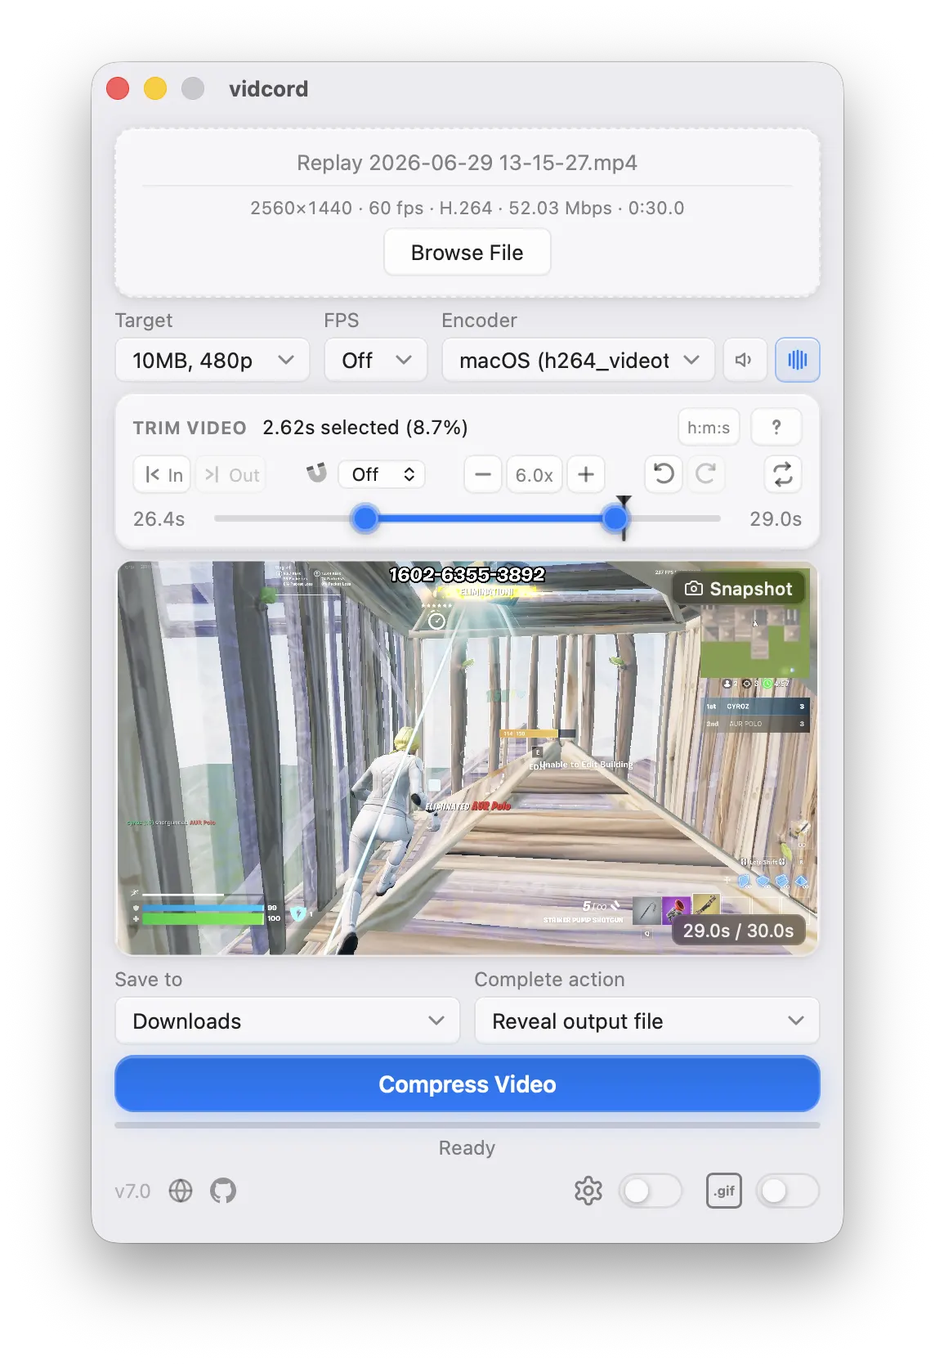
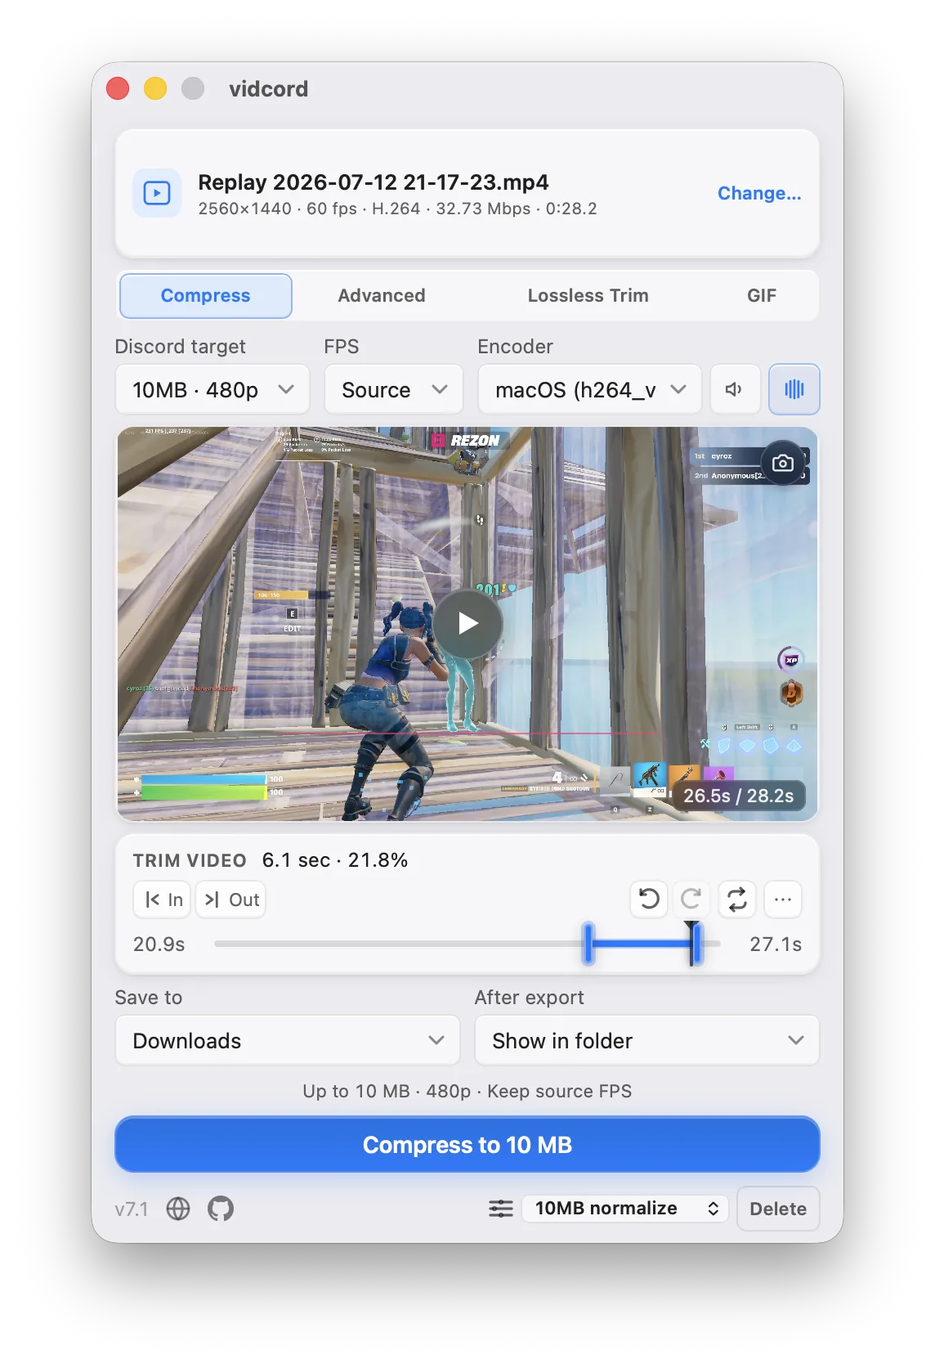
Complete 7.1 workflow and documentation updates

diff --git a/site/index.html b/site/index.html
@@ -91,6 +91,8 @@
             "description": "vidcord compresses MP4, MOV, MKV, AVI, WebM, FLV, and WMV files under Discord upload size limits locally on Windows, macOS, and Linux.",
             "featureList": [
               "Local video compression with FFmpeg",
+              "Saved named compression and mode presets with Autosave, restore, and delete controls",
+              "Lossless Trim stream-copy exports with outward keyframe-aligned boundaries and optional audio-track removal",
               "Discord upload targets: current 10 MB, 50 MB, 100 MB, and 500 MB limits plus a legacy 25 MB target",
               "Animated GIF exports for Discord's 10 MB Free and 50 MB Nitro Basic tiers at 15, 30, or Discord-safe maximum 50 FPS",
               "Output FPS controls with source-aware 24, 30, and 60 FPS presets plus advanced custom FPS",
@@ -113,6 +115,7 @@
             "image": [
               "https://vidcord.app/assets/window.png",
               "https://vidcord.app/assets/advancedmode.png",
+              "https://vidcord.app/assets/losslesstrim.png",
               "https://vidcord.app/assets/gifmode.png",
               "https://vidcord.app/assets/context.png",
               "https://vidcord.app/assets/finder.png",
@@ -444,6 +447,10 @@
           </p>
           <ul>
             <li>Strict output size checks with safer retry behavior.</li>
+            <li>
+              Named settings presets with Autosave, restore, and delete controls for export
+              settings.
+            </li>
             <li>Output FPS controls for 24, 30, 60, or a custom advanced value.</li>
             <li>Crop to 16:9, 1:1, 9:16, 4:3, 3:4, 4:5, or 5:4 before scaling.</li>
             <li>
@@ -483,6 +490,46 @@
               loading="lazy"
               decoding="async"
               alt="vidcord advanced mode with target size, resolution, and encoder controls"
+            />
+          </picture>
+        </div>
+      </section>
+
+      <section class="detail-section" aria-label="Lossless Trim">
+        <div class="detail-copy">
+          <h2>Keep the original quality with Lossless Trim.</h2>
+          <p>
+            Lossless Trim cuts on source keyframes without re-encoding the video. Choose the section
+            you need, keep or remove audio, and export an original-quality clip quickly with
+            stream-copy processing.
+          </p>
+          <ul>
+            <li>No video re-encoding for fast, original-quality exports.</li>
+            <li>Trim boundaries snap outward to source keyframes.</li>
+            <li>Keep audio or remove every audio track without re-encoding video.</li>
+            <li>Size-based exports offer it when the selected segment is estimated to fit.</li>
+            <li>Falls back to normal compression when stream copying is incompatible.</li>
+          </ul>
+        </div>
+        <div class="detail-image">
+          <picture>
+            <source
+              type="image/webp"
+              srcset="
+                assets/losslesstrim-480.webp   480w,
+                assets/losslesstrim-720.webp   720w,
+                assets/losslesstrim-960.webp   960w,
+                assets/losslesstrim-1144.webp 1144w
+              "
+              sizes="(max-width: 760px) calc(100vw - 36px), (max-width: 1040px) 560px, 500px"
+            />
+            <img
+              src="assets/losslesstrim.png"
+              width="1144"
+              height="1668"
+              loading="lazy"
+              decoding="async"
+              alt="vidcord Lossless Trim mode with keyframe-aligned trim controls and no video re-encoding"
             />
           </picture>
         </div>

diff --git a/src/components/SettingsPresets.tsx b/src/components/SettingsPresets.tsx
@@ -1,18 +1,35 @@
-import { useState, type ChangeEvent, type FormEvent } from "react";
-import type { SettingsPreset } from "../settingsPresets";
+import { useEffect, useState, type ChangeEvent, type FormEvent } from "react";
+import {
+  arePresetSettingsEqual,
+  type PresetSettings,
+  type SettingsPreset,
+} from "../settingsPresets";
 
 type Props = {
+  currentSettings: PresetSettings;
   presets: SettingsPreset[];
   onRestore: (preset: SettingsPreset) => void;
   onSave: (name: string) => SettingsPreset | null;
   onDelete: (preset: SettingsPreset) => void;
 };
 
-export default function SettingsPresets({ presets, onRestore, onSave, onDelete }: Props) {
+export default function SettingsPresets({
+  currentSettings,
+  presets,
+  onRestore,
+  onSave,
+  onDelete,
+}: Props) {
   const [saveFormOpen, setSaveFormOpen] = useState(false);
   const [name, setName] = useState("");
   const [selectedPresetId, setSelectedPresetId] = useState("autosave");
   const selectedPreset = presets.find((preset) => preset.id === selectedPresetId);
+
+  useEffect(() => {
+    if (selectedPreset && !arePresetSettingsEqual(currentSettings, selectedPreset.settings)) {
+      setSelectedPresetId("autosave");
+    }
+  }, [currentSettings, selectedPreset]);
 
   const submitSave = (event: FormEvent<HTMLFormElement>) => {
     event.preventDefault();

diff --git a/src/App.tsx b/src/App.tsx
@@ -360,6 +360,12 @@ export default function App() {
       onEncodersDetected: persistDetectedEncoders,
       onFfmpegMissing: () => addToast("error", "FFmpeg Not Found", FFMPEG_MISSING_TOAST_MESSAGE),
     });
+  const currentEncoderLabel =
+    encoders[encoderIdx]?.label ?? (settingsRef.current.encoder_label as string | undefined) ?? "";
+  const currentPresetSettings = useMemo(
+    () => getSettingsSnapshot(encoderIdx, currentEncoderLabel),
+    [currentEncoderLabel, encoderIdx, getSettingsSnapshot]
+  );
   const { compressing, setCompressing, cancelling, progress, eta, cancelCompress, resetProgress } =
     useCompression({ onToast: addToast });
 
@@ -3324,6 +3330,7 @@ export default function App() {
               }
             >
               <SettingsPresets
+                currentSettings={currentPresetSettings}
                 presets={presets}
                 onRestore={restoreSettingsPreset}
                 onSave={saveSettingsPreset}

diff --git a/src/__tests__/settingsPresets.test.ts b/src/__tests__/settingsPresets.test.ts
@@ -1,10 +1,22 @@
 import { describe, expect, it } from "vitest";
 import {
+  arePresetSettingsEqual,
   MAX_SETTINGS_PRESETS,
   normalizePresetName,
   normalizePresetSettings,
   parseSettingsPresets,
 } from "../settingsPresets";
+
+describe("arePresetSettingsEqual", () => {
+  it("detects when a preset-covered setting changes", () => {
+    const original = normalizePresetSettings({ quality_index: 2 });
+
+    expect(arePresetSettingsEqual(original, original)).toBe(true);
+    expect(arePresetSettingsEqual(original, { ...original, advanced_resolution: "720p" })).toBe(
+      false
+    );
+  });
+});
 
 describe("normalizePresetName", () => {
   it("trims and collapses whitespace", () => {

diff --git a/src/settingsPresets.ts b/src/settingsPresets.ts
@@ -82,6 +82,12 @@ export function normalizePresetSettings(value: unknown): PresetSettings {
   return normalized;
 }
 
+export function arePresetSettingsEqual(left: PresetSettings, right: PresetSettings): boolean {
+  return (Object.keys(DEFAULT_PRESET_SETTINGS) as Array<keyof PresetSettings>).every((key) =>
+    Object.is(left[key], right[key])
+  );
+}
+
 export function normalizePresetName(value: string): string {
   return value.trim().replace(/\s+/g, " ").slice(0, MAX_PRESET_NAME_LENGTH);
 }

diff --git a/README.md b/README.md
@@ -91,6 +91,7 @@ first pass lands too large.
 | ------------------------------------------------------- | ------------------------------------------------------------------------------ |
 | Compress a video for Discord free upload limits         | Use the 10 MB preset, trim the clip, and remove audio if needed.               |
 | Compress large MP4, MOV, MKV, AVI, or WebM files        | FFmpeg handles the input format and vidcord exports a Discord-friendly `.mp4`. |
+| Preserve original video quality while trimming          | Use Lossless Trim for keyframe-aligned stream-copy output without re-encoding. |
 | Turn a video clip into a Discord GIF                    | Enable GIF Mode and choose the 10 MB Free or 50 MB Nitro Basic target.         |
 | Make a video fit Discord Nitro or boosted server limits | Pick 50 MB, 100 MB, or 500 MB presets without calculating bitrates by hand.    |
 | Keep video compression private                          | Everything runs locally on your computer; no web upload step.                  |
@@ -100,7 +101,10 @@ first pass lands too large.
 ## Features
 
 - **Saved settings presets** — the app autosaves the last settings used by default;
-  use the bottom-right preset dropdown to save, restore, and delete named export configurations.
+  use the bottom-right preset dropdown to save, restore, and delete up to 20 named compression and
+  mode configurations. Names are limited to 40 characters; changing a saved preset's settings
+  returns the selector to Autosave, while output destination and completion action remain separate
+  autosaved preferences.
 
 - **Five quality presets** covering current Discord tiers plus a legacy target:
   - 10 MB @ 480p — Discord free tier
@@ -136,13 +140,16 @@ first pass lands too large.
   in Explorer/Finder instead.
 - **Trim timeline** with fine-grained handles, draggable playhead, snap
   controls, zoom, pan, undo/redo, and optional looped playback.
-- **Lossless Trim** — use the dedicated copy-mode toggle beside Advanced to
+- **Lossless Trim** — use the dedicated copy-mode tab beside Advanced to
   preserve every source stream with a fast keyframe-aligned stream copy, or
   remove all audio tracks without re-encoding the video. Unrelated settings are
   hidden while the mode is active. When a selected segment is estimated to fit
   a chosen size target at the source bitrate, pressing Compress offers this
   mode automatically; accepting it switches to less-precise keyframe trimming
-  so you can choose the trim points again before exporting.
+  so you can choose the trim points again before exporting. Boundaries snap
+  outward to source keyframes; vidcord prefers an MP4 stream-copy output, then
+  the validated source container, and falls back to normal compression when
+  neither is compatible.
 - **In-app playback preview** of the trimmed segment on Windows and macOS,
   starting from the current playhead when it is inside the selected range.
 - **Responsive scrub previews** with display-sized filmstrip/frame thumbnails,
@@ -198,13 +205,15 @@ first pass lands too large.
 MP4, MOV, MKV, AVI, WebM, FLV, WMV, and any other container / codec
 combination your system FFmpeg can demux. Standard and Advanced mode output is
 `.mp4` — H.264 (AVC) by default or H.265 (HEVC) if you pick an `hevc_*`
-encoder. GIF Mode creates an animated `.gif`.
+encoder. Lossless Trim prefers `.mp4` and can use the validated source video
+extension when the source container is the compatible stream-copy choice. GIF
+Mode creates an animated `.gif`.
 
 ## Screenshots
 
-| Main window                                                                                             | Advanced mode                                                                                                              | GIF mode                                                                                                                |
-| ------------------------------------------------------------------------------------------------------- | -------------------------------------------------------------------------------------------------------------------------- | ----------------------------------------------------------------------------------------------------------------------- |
-| ![vidcord main window with trim timeline, size preset picker, and progress bar](site/assets/window.png) | ![vidcord Advanced mode: custom target size, output resolution, and FFmpeg encoder override](site/assets/advancedmode.png) | ![vidcord GIF mode with Discord size target, FPS picker, trim timeline, and Create GIF button](site/assets/gifmode.png) |
+| Main window                                                                                             | Advanced mode                                                                                                              | Lossless Trim                                                                                                            | GIF mode                                                                                                                |
+| ------------------------------------------------------------------------------------------------------- | -------------------------------------------------------------------------------------------------------------------------- | ------------------------------------------------------------------------------------------------------------------------ | ----------------------------------------------------------------------------------------------------------------------- |
+| ![vidcord main window with trim timeline, size preset picker, and progress bar](site/assets/window.png) | ![vidcord Advanced mode: custom target size, output resolution, and FFmpeg encoder override](site/assets/advancedmode.png) | ![vidcord Lossless Trim mode with keyframe-aligned trim controls and no video re-encoding](site/assets/losslesstrim.png) | ![vidcord GIF mode with Discord size target, FPS picker, trim timeline, and Create GIF button](site/assets/gifmode.png) |
 
 | Output file                                                                                 | Windows context menu                                                                                            | macOS Finder                                                                                          |
 | ------------------------------------------------------------------------------------------- | --------------------------------------------------------------------------------------------------------------- | ----------------------------------------------------------------------------------------------------- |
@@ -274,23 +283,33 @@ For more distros, manual installs, or troubleshooting, read
 2. **Choose where to save** — use Downloads, the imported clip's folder, a
    remembered custom folder, or **Ask when done**. Choose whether completion
    copies the output file or reveals it.
-3. **Pick a preset** — 10/25/50/100/500 MB, or flip on **Advanced mode** for
-   a custom target size, resolution, crop, FPS, audio normalization, and
-   encoder. Leave the advanced size empty to use the source bitrate without a
-   file-size limit. Standard mode can also cap output FPS at 24, 30, or 60
-   when those values do not exceed the source frame rate.
+3. **Pick a mode or preset** — choose **Compress**, **Advanced**, **Lossless
+   Trim**, or **GIF**, then select a 10/25/50/100/500 MB target where that mode
+   applies. Advanced exposes custom target size, resolution, crop, FPS, audio
+   normalization, and encoder controls; leaving its size empty uses the source
+   bitrate without a file-size limit. Standard mode can cap output FPS at 24,
+   30, or 60 when those values do not exceed the source frame rate.
 4. **Trim** (optional) — drag the handles or use `I` / `O` to stamp the
    playhead. `Space` plays the selected range from the current playhead when it
    is inside the trim.
 5. **Choose audio handling** — keep the prioritized track, normalize it, or
    remove audio to reserve more bitrate for video.
-6. **Click Compress.** Progress shows the current attempt, encoder, bitrate,
-   and ETA. When it's done, vidcord reports the final output size and runs your
-   selected completion action.
+6. **Export.** Compress and Advanced re-encode to the selected target, Lossless
+   Trim uses **Trim Without Re-encoding** after keyframe discovery, and GIF mode
+   creates an animated GIF. Progress shows the current attempt, encoder,
+   bitrate, and ETA for encoding modes; when the export is done, vidcord reports
+   the result and runs your selected completion action.
 
-Output goes to `~/Downloads/<original-name>-vidcord.mp4` by default, with
-`-1`, `-2`, … appended if the name is taken. The selected destination mode,
-custom folder, and completion action are saved for the next launch.
+The footer preset selector starts at **Autosave**. Save the current compression
+and mode settings as a named preset, restore it later, or delete it; if you
+change one of those settings afterward, the selector returns to Autosave to
+show that the saved preset no longer matches. Output destination, custom folder,
+and completion action are saved independently for the next launch.
+
+Compression goes to `~/Downloads/<original-name>-vidcord.mp4` by default, with
+`-1`, `-2`, … appended if the name is taken. Lossless Trim uses the same
+collision-safe naming and may use the source video extension when stream copying
+requires it.
 
 ## Keyboard shortcuts
 
@@ -404,7 +423,9 @@ matching `CHANGELOG.md` section and draft a GitHub release.
 src/                       React + TypeScript frontend
   App.tsx                  Root component — trim UI, preset wiring, compress flow
   ipc.ts                   Typed wrappers around Tauri invoke() commands
-  components/              PreviewPane, TrimTimeline, ProgressSection, Toast, EncodersDialog
+  losslessTrim.ts          Pure fit and keyframe-snap helpers for Lossless Trim
+  settingsPresets.ts       Preset schema, normalization, equality, and parsing helpers
+  components/              PreviewPane, TrimTimeline, ProgressSection, Toast, SettingsPresets, EncodersDialog
   hooks/                   useCompression, useEncoders, useSettings, useToasts
   __tests__/               Vitest tests (node env, Tauri APIs mocked)
 
@@ -521,8 +542,9 @@ still looks reasonable at that bitrate.
 ### Which video formats does vidcord support?
 
 Any container your system FFmpeg can demux: **MP4, MOV, MKV, AVI, WebM,
-FLV, WMV**, and more. Output is always `.mp4` (H.264 by default, H.265
-if you pick an `hevc_*` encoder in Advanced mode).
+FLV, WMV**, and more. Compress and Advanced output `.mp4` (H.264 by default,
+H.265 if you pick an `hevc_*` encoder in Advanced mode); Lossless Trim prefers
+`.mp4` and can use the validated source extension when needed.
 
 ### Can vidcord compress MP4 files for Discord?
 
@@ -558,9 +580,12 @@ string so you can override any of it.
 
 ### Can vidcord compress a video without re-encoding?
 
-Not currently. Hitting a specific target size under Discord's limits
-requires re-encoding at a calculated bitrate; stream-copy wouldn't
-guarantee the output fits.
+Yes. **Lossless Trim** stream-copies the selected source streams and snaps the
+visible boundaries outward to source keyframes, so the export keeps original
+quality without video re-encoding. It does not promise a target size; when a
+size-based segment is estimated to fit, Compress offers the same mode with a
+keyframe-precision warning. Keyframe discovery failure blocks the lossless
+export, and incompatible stream-copy inputs fall back to normal compression.
 
 ### Does vidcord work on Linux and Wayland?
 

diff --git a/AGENTS.md b/AGENTS.md
@@ -27,16 +27,19 @@ Guidance for AI assistants working in this repository. Read this before making c
 │   ├── previewScrub.ts        # Pure preview-seek and native-context-menu helpers
 │   ├── timelineZoom.ts        # Pure trim-timeline zoom/view calculations
 │   ├── videoMetadata.ts       # Pure source-metadata formatting helpers
+│   ├── losslessTrim.ts         # Pure lossless-fit, keyframe-snap, and keyframe-normalization helpers
+│   ├── settingsPresets.ts      # Preset schema, normalization, equality, and parsing helpers
 │   ├── components/
 │   │   ├── PreviewPane.tsx    # Video preview + scrub thumbnail + filmstrip
 │   │   ├── ProgressSection.tsx# Compression progress bar + ETA
 │   │   ├── TrimTimeline.tsx   # Memoized trim controls, shortcuts, zoom, playhead UI
 │   │   ├── Toast.tsx          # Single toast row
+│   │   ├── SettingsPresets.tsx # Autosave and named preset save/restore/delete controls
 │   │   └── EncodersDialog.tsx # Lazy-loaded FFmpeg encoder list dialog
 │   ├── hooks/
 │   │   ├── useCompression.ts  # Event listeners + pure bitrate/dimension helpers (tested)
 │   │   ├── useEncoders.ts     # detect_encoders + FFmpeg-missing tracking
-│   │   ├── useSettings.ts     # persisted compression/output prefs + debounced saves
+│   │   ├── useSettings.ts     # persisted compression/output prefs, presets, and debounced saves
 │   │   └── useToasts.ts       # Toast queue with per-id timer cleanup
 │   ├── __tests__/             # Vitest tests (node env, Tauri APIs mocked)
 │   └── __mocks__/@tauri-apps/ # Invoke/listen stubs so pure helpers run in Node
@@ -402,6 +405,15 @@ The frontend keeps only the newest fallback-frame target and actively cancels an
 Persisted to `~/.local/share/vidcord/settings.json` (Linux), `~/Library/Application Support/vidcord/settings.json` (macOS), or `%LOCALAPPDATA%\vidcord\settings.json` (Windows) via `dirs::data_local_dir()`.
 Writes use a flushed temporary file plus atomic replacement. Windows must use `MoveFileExW` with replace/write-through flags because `std::fs::rename` cannot replace an existing destination there; do not regress repeated settings saves to a plain rename.
 
+Named presets are stored in the optional `presets` array as `{ id, name, settings }` records. The
+frontend parses and normalizes them through `settingsPresets.ts`, accepts at most 20 presets, limits
+names to 40 characters, replaces an existing preset case-insensitively when the name matches, and
+ignores malformed or duplicate records on load. Presets capture compression and mode settings,
+including the selected encoder identity, but intentionally do not capture output destination,
+custom output folder, or completion action. The footer shows Autosave whenever the current captured
+settings no longer equal the selected preset; keep that comparison behavior when adding a new
+preset-backed setting.
+
 ### Native window theme
 
 `main.tsx` watches `prefers-color-scheme` and invokes `sync_native_window_theme`. The command is a
@@ -514,4 +526,4 @@ separate Site Checks workflow.
 - Linux live `<video>` scrubbing and Play/Stop trim controls are deliberately disabled because WebKitGTK's GStreamer playback path can crash the renderer on systems without a usable audio sink. Keep the `get_os` guard and FFmpeg-generated filmstrip/frame fallback unless live playback is validated across the supported Linux desktop environments and AppImage packaging.
 - CSP also gates drive roots on Windows (`C:/**` … `Z:/**`). If a user reports a path refused by the asset protocol, check `assetProtocol.scope`.
 - EncodersDialog is `React.lazy` + `Suspense` — don't import it eagerly in `App.tsx`, that re-grows the entry bundle.
-- Tests run in a **Node** environment, and the Tauri runtime APIs are mocked in `src/__mocks__/@tauri-apps/api/*`. Write tests against pure helpers (`useCompression.ts`, `ffmpegErrors.ts`, `previewScrub.ts`, `timelineZoom.ts`, `videoMetadata.ts`) or as Rust unit tests. Component integration tests are not currently wired up; don't invent a jsdom setup unless asked.
+- Tests run in a **Node** environment, and the Tauri runtime APIs are mocked in `src/__mocks__/@tauri-apps/api/*`. Write tests against pure helpers (`useCompression.ts`, `ffmpegErrors.ts`, `losslessTrim.ts`, `previewScrub.ts`, `settingsPresets.ts`, `timelineZoom.ts`, `videoMetadata.ts`) or as Rust unit tests. Component integration tests are not currently wired up; don't invent a jsdom setup unless asked.

diff --git a/CHANGELOG.md b/CHANGELOG.md
@@ -8,15 +8,20 @@
 - Size-based compression now offers Lossless Trim when the selected segment is estimated to fit the chosen target at the source bitrate; accepting the offer switches to less-precise keyframe trimming so the user can choose trim points again before exporting.
 - Replaced the Lossless Trim suggestion dialog with a plain-language in-app banner that lets users keep the original quality or continue with compression.
 - Preserved keyframe-aligned boundaries when undoing or redoing Lossless Trim edits.
+- Lossless Trim now blocks export when keyframe discovery fails, prefers an MP4 stream-copy output, and can retain the validated source container extension before falling back to normal compression.
 
-### Performance
+### Settings
+
+- Added named settings presets alongside Autosave, with save, restore, delete, case-insensitive name replacement, and up to 20 persisted presets. Changing a compression or mode setting after restoring a preset returns the footer label to Autosave so it no longer implies the saved preset is active.
+
+### Build & Release
 
 - Reduced redundant CI work by deduplicating branch and pull-request runs for the same commit, reusing CI-profile Rust artifacts, and reserving installer packaging for release tags and explicit manual builds.
 
 ### UI
 
+- Refreshed the website's Compress, Advanced, Lossless Trim, and GIF mode screenshots and added a dedicated Lossless Trim showcase section.
 - Fixed the settings-preset footer form so its controls stay visible in a single row at the fixed app size.
-- Added named settings presets alongside the default autosaved settings, with export-setting save, restore, and delete controls.
 - Reorganized the export workflow around labeled Compress, Advanced, Lossless Trim, and GIF tabs, collapsed loaded videos into a compact file summary, balanced the Lossless Trim settings row, placed trim controls directly beneath the preview, and moved secondary timeline tools into an overflow panel.
 - Added target-aware export summaries and action labels, hid idle progress chrome, improved light-mode contrast, and reduced the frame-snapshot overlay to a hover control.
 - Kept the import area at a stable height after loading a video and constrained expanded keyboard shortcuts within the app window.
